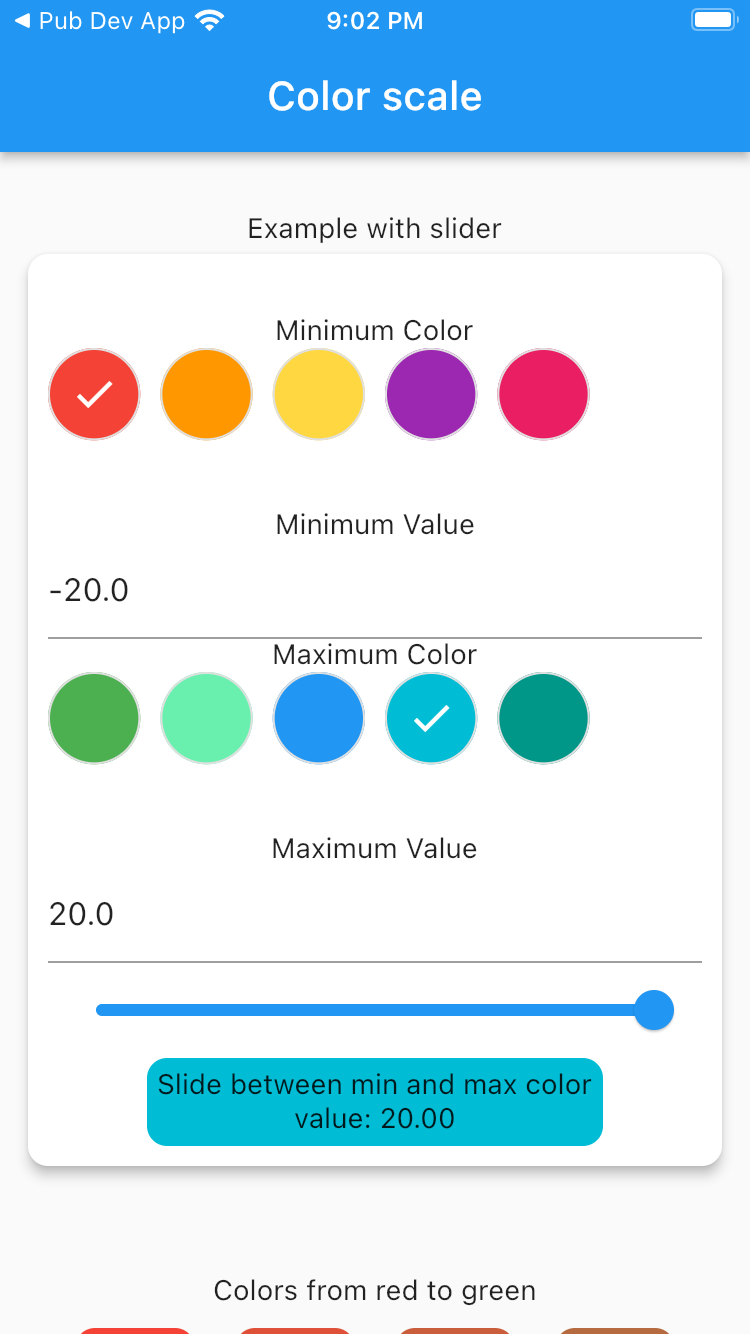
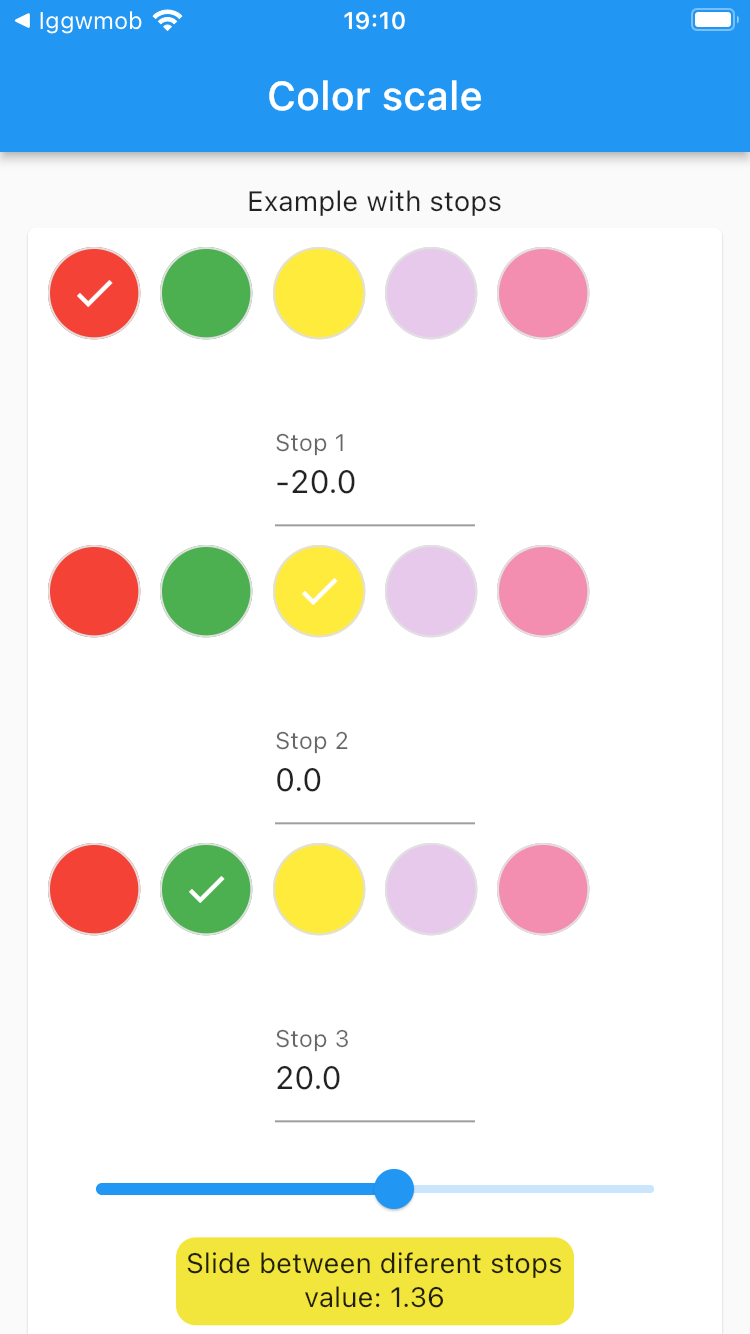
Documentation about color stops

diff --git a/example/lib/main.dart b/example/lib/main.dart
@@ -25,10 +25,10 @@ class MyApp extends StatelessWidget {
               margin: const EdgeInsets.all(10),
               child: Column(
                 children: [
-                  SizedBox(
+                  const SizedBox(
                     height: 20,
                   ),
-                  Text('Example with stops'),
+                  const Text('Example with stops'),
                   StopsValueAndColorsWidget(
                     colorStops: <double, Color>{
                       -20: Colors.red,
@@ -36,15 +36,15 @@ class MyApp extends StatelessWidget {
                       20: Colors.green,
                     },
                   ),
-                  Text('Example with slider'),
-                  ExampleWithSlider(
+                  const Text('Example with slider'),
+                  const ExampleWithSlider(
                       text: 'Slide between min and max color',
                       minColor: Colors.red,
                       maxColor: Colors.green),
-                  SizedBox(
+                  const SizedBox(
                     height: 50,
                   ),
-                  TestColorScale(
+                  const TestColorScale(
                     text: 'Colors from red to green',
                     values: [-20, -15, -10, -5, 0, 5, 10, 15],
                     minValue: -20,
@@ -52,7 +52,7 @@ class MyApp extends StatelessWidget {
                     maxValue: 20,
                     maxColor: Colors.green,
                   ),
-                  TestColorScale(
+                  const TestColorScale(
                     text: 'Colors from blue to green',
                     values: [-20, -15, -10, -5, 0, 5, 10, 15],
                     minValue: -20,
@@ -60,7 +60,7 @@ class MyApp extends StatelessWidget {
                     maxValue: 20,
                     maxColor: Colors.green,
                   ),
-                  TestColorScale(
+                  const TestColorScale(
                     text: 'Colors from red to yellow',
                     values: [-20, -15, -10, -5, 0, 5, 10, 15],
                     minValue: -20,
@@ -68,8 +68,8 @@ class MyApp extends StatelessWidget {
                     maxValue: 20,
                     maxColor: Colors.yellow,
                   ),
-                  Text('Childless example'),
-                  ClipRRect(
+                  const Text('Childless example'),
+                  const ClipRRect(
                     borderRadius: BorderRadius.all(Radius.circular(10)),
                     child: SizedBox(
                       width: 50,
@@ -82,7 +82,23 @@ class MyApp extends StatelessWidget {
                         maxColor: Colors.black,
                       ),
                     ),
-                  )
+                  ),
+                  const Text('Childless example with stops'),
+                  ClipRRect(
+                    borderRadius: const BorderRadius.all(Radius.circular(10)),
+                    child: SizedBox(
+                      width: 50,
+                      height: 50,
+                      child: ColorScaleStopsWidget(
+                        value: 0,
+                        colorStops: <double, Color>{
+                          -20: Colors.red,
+                          0: Colors.yellow,
+                          20: Colors.green,
+                        },
+                      ),
+                    ),
+                  ),
                 ],
               ),
             ),
@@ -415,71 +431,76 @@ class _StopsValueAndColorsWidgetState extends State<StopsValueAndColorsWidget> {
 
   @override
   Widget build(BuildContext context) {
-    return Container(
-      child: Card(
-        child: Container(
-          margin: const EdgeInsets.all(10),
-          child: Column(
-            children: [
-              Column(
-                children: colorStops.keys.map((stopValue) {
-                  Color stopColor = colorStops[stopValue]!;
-                  return Column(
-                    mainAxisAlignment: MainAxisAlignment.spaceBetween,
-                    children: [
-                      MyColorPicker(
-                        onSelectColor: (color) => setState(() {
-                          colorStops[stopValue] = color;
-                        }),
-                        initialColor: stopColor,
-                        availableColors: [
-                          Colors.red,
-                          Colors.green,
-                          Colors.yellow,
-                          Colors.purple.withOpacity(0.25),
-                          Colors.pink.withOpacity(0.5)
-                        ],
-                      ),
-                      Container(
-                        width: 50,
-                        child: TextField(
-                          keyboardType: TextInputType.number,
-                          controller:
-                              TextEditingController(text: stopValue.toString()),
-                          onChanged: (inputValue) => setState(() {
-                            double newValue = double.parse(inputValue);
-                            colorStops.remove(stopValue);
-                            colorStops[newValue] = stopColor;
-                          }),
-                        ),
-                      ),
-                    ],
-                  );
-                }).toList(),
-              ),
-              Slider(
-                  min: colorStops.keys.first,
-                  max: colorStops.keys.last,
-                  value: value,
-                  onChanged: onSliderMove),
-              ClipRRect(
-                borderRadius: const BorderRadius.all(Radius.circular(10.0)),
-                child: ColorScaleStopsWidget(
-                  value: value,
-                  colorStops: colorStops,
-                  child: Container(
-                    margin: const EdgeInsets.all(5),
-                    child: Column(
-                      children: [
-                        Text('Slide between diferent stops'),
-                        Text('value: ${value.toStringAsFixed(2)}')
+    int i = 0;
+
+    return Card(
+      child: Container(
+        margin: const EdgeInsets.all(10),
+        child: Column(
+          children: [
+            Column(
+              children: colorStops.keys.map((stopValue) {
+                i++;
+                Color stopColor = colorStops[stopValue]!;
+                return Column(
+                  mainAxisAlignment: MainAxisAlignment.spaceBetween,
+                  children: [
+                    MyColorPicker(
+                      onSelectColor: (color) => setState(() {
+                        colorStops[stopValue] = color;
+                      }),
+                      initialColor: stopColor,
+                      availableColors: [
+                        Colors.red,
+                        Colors.green,
+                        Colors.yellow,
+                        Colors.purple.withOpacity(0.25),
+                        Colors.pink.withOpacity(0.5)
                       ],
                     ),
+                    Container(
+                      width: 100,
+                      margin: const EdgeInsets.only(bottom: 10),
+                      child: TextField(
+                        keyboardType: TextInputType.number,
+                        controller:
+                            TextEditingController(text: stopValue.toString()),
+                        onChanged: (inputValue) => setState(() {
+                          double newValue = double.parse(inputValue);
+                          colorStops.remove(stopValue);
+                          colorStops[newValue] = stopColor;
+                        }),
+                        decoration: InputDecoration(
+                          label: Text('Stop $i'),
+                        ),
+                      ),
+                    ),
+                  ],
+                );
+              }).toList(),
+            ),
+            Slider(
+                min: colorStops.keys.first,
+                max: colorStops.keys.last,
+                value: value,
+                onChanged: onSliderMove),
+            ClipRRect(
+              borderRadius: const BorderRadius.all(Radius.circular(10.0)),
+              child: ColorScaleStopsWidget(
+                value: value,
+                colorStops: colorStops,
+                child: Container(
+                  margin: const EdgeInsets.all(5),
+                  child: Column(
+                    children: [
+                      const Text('Slide between diferent stops'),
+                      Text('value: ${value.toStringAsFixed(2)}')
+                    ],
                   ),
                 ),
               ),
-            ],
-          ),
+            ),
+          ],
         ),
       ),
     );

diff --git a/README.md b/README.md
@@ -1,4 +1,4 @@
-This project is for making a color of a widget dynamic depending on a value, this a behaviour common to see in excel or google sheets,
+This project is for making a color of a widget dynamic depending on a value, this a behaviour common to see in excel or google sheets, as color scale of the conditional formatting,
 when you want to have a  color giving an indication of what value is being presented and make the data consumtion easier and more intuitive
 
 ![Color scale example screenshot 1](https://raw.githubusercontent.com/ivofernandes/color_scale/master/doc/simulator_screenshot_1.png?raw=true)
@@ -10,20 +10,19 @@ https://www.youtube.com/watch?v=jqckPlHoRTI
 
 ## Features
 
-Create a container with a color that depends on a value
+Create a container with a color that depends on a value, this can help the user to identify data inside a report without need to read everything.
 
 ## Getting started
 
-
 Add the dependency to your `pubspec.yaml`:
 ```
-color_scale: ^0.0.3
+color_scale: ^0.0.4
 ```
 
 ## Usage
 ```dart
 ColorScaleWidget(
-    value: 0,
+    value: 0, // Customize here the value that you want to influence the color
     minValue: -20,
     minColor: Colors.white,
     maxValue: 20,
@@ -33,6 +32,26 @@ ColorScaleWidget(
         child: Text('50% between black and white')
     )
 )
+```
+
+Usage
+```dart
+ClipRRect(
+    borderRadius: const BorderRadius.all(Radius.circular(10)),
+    child: SizedBox(
+      width: 50,
+      height: 50,
+      child: ColorScaleStopsWidget(
+        value: 0,  // Customize here the value that you want to influence the color
+        colorStops: <double, Color>{
+          -20: Colors.red,
+          0: Colors.yellow,
+          20: Colors.green,
+        },
+        child: Text('Add your widget here!'),
+      ),
+    ),
+),
 ```
 
 ## Like us on pub.dev

diff --git a/CHANGELOG.md b/CHANGELOG.md
@@ -6,3 +6,6 @@ Improved the example to have a slider
 
 ## 0.0.3
 Added opacity to the final color calculation
+
+## 0.0.4
+Added stops to the color scale
